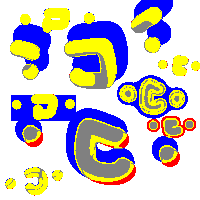
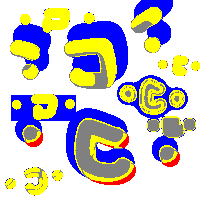
Update similarity report and remove orphaned text-debug images
Remove reference images for read/text-debug/src.psd which has no
corresponding PSD file in the ag-psd submodule. Regenerate similarity
report reflecting FrFX border rendering improvement.

Changed region(s): [[0.72, 0.57, 0.99, 0.69]]

diff --git a/docs/similarity_report.md b/docs/similarity_report.md
@@ -1,14 +1,14 @@
 # QtPsd Similarity Test Results
 
-Generated on: 2026-02-08T21:35:47
+Generated on: 2026-02-09T10:27:26
 
 ## Summary Statistics
 
 | Metric | Photoshop vs QPsdView | Photoshop vs Image Data |
 |--------|-----------------------|-------------------------|
-| Total Tests | 146 | 146 |
-| Passed Tests (>50%) | 116 (74.0%) | 108 (79.5%) |
-| Average Similarity | 75.59% | 79.83% |
+| Total Tests | 145 | 145 |
+| Passed Tests (>50%) | 116 (74.5%) | 108 (80.0%) |
+| Average Similarity | 75.88% | 80.20% |
 | Minimum Similarity | 0.00% | 0.00% |
 | Maximum Similarity | 100.00% | 100.00% |
 
@@ -35,7 +35,7 @@ Generated on: 2026-02-08T21:35:47
 | [write/circle/expected.psd](https://github.com/Agamnentzar/ag-psd/tree/master/test/write/circle/expected.psd) | 24.6 KB | 99.97%  | ✅ PERFECT | [<img src="images/psd2png/ag-psd/write/circle/expected.png" width="100">](images/psd2png/ag-psd/write/circle/expected.png) | [<img src="images/psdview/ag-psd/write/circle/expected.png" width="100">](images/psdview/ag-psd/write/circle/expected.png) | [<img src="images/psdview/ag-psd/write/circle/expected_diff.png" width="100">](images/psdview/ag-psd/write/circle/expected_diff.png) |
 | [read-write/vector-and-mask/expected.psd](https://github.com/Agamnentzar/ag-psd/tree/master/test/read-write/vector-and-mask/expected.psd) | 25.2 KB | 84.59%  | ⚠ LOW | [<img src="images/psd2png/ag-psd/read-write/vector-and-mask/expected.png" width="100">](images/psd2png/ag-psd/read-write/vector-and-mask/expected.png) | [<img src="images/psdview/ag-psd/read-write/vector-and-mask/expected.png" width="100">](images/psdview/ag-psd/read-write/vector-and-mask/expected.png) | [<img src="images/psdview/ag-psd/read-write/vector-and-mask/expected_diff.png" width="100">](images/psdview/ag-psd/read-write/vector-and-mask/expected_diff.png) |
 | [read/nested/src.psd](https://github.com/Agamnentzar/ag-psd/tree/master/test/read/nested/src.psd) | 25.4 KB | 100.00%  | ✅ PERFECT | [<img src="images/psd2png/ag-psd/read/nested/src.png" width="100">](images/psd2png/ag-psd/read/nested/src.png) | [<img src="images/psdview/ag-psd/read/nested/src.png" width="100">](images/psdview/ag-psd/read/nested/src.png) | [<img src="images/psdview/ag-psd/read/nested/src_diff.png" width="100">](images/psdview/ag-psd/read/nested/src_diff.png) |
-| [read-write/stroke/expected.psd](https://github.com/Agamnentzar/ag-psd/tree/master/test/read-write/stroke/expected.psd) | 25.5 KB | 61.89%  | ⚠ LOW | [<img src="images/psd2png/ag-psd/read-write/stroke/expected.png" width="100">](images/psd2png/ag-psd/read-write/stroke/expected.png) | [<img src="images/psdview/ag-psd/read-write/stroke/expected.png" width="100">](images/psdview/ag-psd/read-write/stroke/expected.png) | [<img src="images/psdview/ag-psd/read-write/stroke/expected_diff.png" width="100">](images/psdview/ag-psd/read-write/stroke/expected_diff.png) |
+| [read-write/stroke/expected.psd](https://github.com/Agamnentzar/ag-psd/tree/master/test/read-write/stroke/expected.psd) | 25.5 KB | 90.21%  | ✅ GOOD | [<img src="images/psd2png/ag-psd/read-write/stroke/expected.png" width="100">](images/psd2png/ag-psd/read-write/stroke/expected.png) | [<img src="images/psdview/ag-psd/read-write/stroke/expected.png" width="100">](images/psdview/ag-psd/read-write/stroke/expected.png) | [<img src="images/psdview/ag-psd/read-write/stroke/expected_diff.png" width="100">](images/psdview/ag-psd/read-write/stroke/expected_diff.png) |
 | [write/layer-mask/expected.psd](https://github.com/Agamnentzar/ag-psd/tree/master/test/write/layer-mask/expected.psd) | 25.6 KB | 100.00%  | ✅ PERFECT | [<img src="images/psd2png/ag-psd/write/layer-mask/expected.png" width="100">](images/psd2png/ag-psd/write/layer-mask/expected.png) | [<img src="images/psdview/ag-psd/write/layer-mask/expected.png" width="100">](images/psdview/ag-psd/write/layer-mask/expected.png) | [<img src="images/psdview/ag-psd/write/layer-mask/expected_diff.png" width="100">](images/psdview/ag-psd/write/layer-mask/expected_diff.png) |
 | [read/pass-through/src.psd](https://github.com/Agamnentzar/ag-psd/tree/master/test/read/pass-through/src.psd) | 26.3 KB | 100.00%  | ✅ PERFECT | [<img src="images/psd2png/ag-psd/read/pass-through/src.png" width="100">](images/psd2png/ag-psd/read/pass-through/src.png) | [<img src="images/psdview/ag-psd/read/pass-through/src.png" width="100">](images/psdview/ag-psd/read/pass-through/src.png) | [<img src="images/psdview/ag-psd/read/pass-through/src_diff.png" width="100">](images/psdview/ag-psd/read/pass-through/src_diff.png) |
 | [layer-mask/src.psd](https://github.com/Agamnentzar/ag-psd/tree/master/test/layer-mask/src.psd) | 26.7 KB | 100.00%  | ✅ PERFECT | [<img src="images/psd2png/ag-psd/layer-mask/src.png" width="100">](images/psd2png/ag-psd/layer-mask/src.png) | [<img src="images/psdview/ag-psd/layer-mask/src.png" width="100">](images/psdview/ag-psd/layer-mask/src.png) | [<img src="images/psdview/ag-psd/layer-mask/src_diff.png" width="100">](images/psdview/ag-psd/layer-mask/src_diff.png) |
@@ -43,9 +43,9 @@ Generated on: 2026-02-08T21:35:47
 | [read-write/vector-and-mask/src.psd](https://github.com/Agamnentzar/ag-psd/tree/master/test/read-write/vector-and-mask/src.psd) | 27.0 KB | 84.59%  | ⚠ LOW | [<img src="images/psd2png/ag-psd/read-write/vector-and-mask/src.png" width="100">](images/psd2png/ag-psd/read-write/vector-and-mask/src.png) | [<img src="images/psdview/ag-psd/read-write/vector-and-mask/src.png" width="100">](images/psdview/ag-psd/read-write/vector-and-mask/src.png) | [<img src="images/psdview/ag-psd/read-write/vector-and-mask/src_diff.png" width="100">](images/psdview/ag-psd/read-write/vector-and-mask/src_diff.png) |
 | [read/section-2/src.psd](https://github.com/Agamnentzar/ag-psd/tree/master/test/read/section-2/src.psd) | 27.8 KB | 100.00%  | ✅ PERFECT | [<img src="images/psd2png/ag-psd/read/section-2/src.png" width="100">](images/psd2png/ag-psd/read/section-2/src.png) | [<img src="images/psdview/ag-psd/read/section-2/src.png" width="100">](images/psdview/ag-psd/read/section-2/src.png) | [<img src="images/psdview/ag-psd/read/section-2/src_diff.png" width="100">](images/psdview/ag-psd/read/section-2/src_diff.png) |
 | [read/cat/src.psd](https://github.com/Agamnentzar/ag-psd/tree/master/test/read/cat/src.psd) | 29.5 KB | 100.00%  | ✅ PERFECT | [<img src="images/psd2png/ag-psd/read/cat/src.png" width="100">](images/psd2png/ag-psd/read/cat/src.png) | [<img src="images/psdview/ag-psd/read/cat/src.png" width="100">](images/psdview/ag-psd/read/cat/src.png) | [<img src="images/psdview/ag-psd/read/cat/src_diff.png" width="100">](images/psdview/ag-psd/read/cat/src_diff.png) |
-| [read-write/animation-effects/expected.psd](https://github.com/Agamnentzar/ag-psd/tree/master/test/read-write/animation-effects/expected.psd) | 30.3 KB | 46.30%  | ❌ FAILED | [<img src="images/psd2png/ag-psd/read-write/animation-effects/expected.png" width="100">](images/psd2png/ag-psd/read-write/animation-effects/expected.png) | [<img src="images/psdview/ag-psd/read-write/animation-effects/expected.png" width="100">](images/psdview/ag-psd/read-write/animation-effects/expected.png) | [<img src="images/psdview/ag-psd/read-write/animation-effects/expected_diff.png" width="100">](images/psdview/ag-psd/read-write/animation-effects/expected_diff.png) |
+| [read-write/animation-effects/expected.psd](https://github.com/Agamnentzar/ag-psd/tree/master/test/read-write/animation-effects/expected.psd) | 30.3 KB | 27.06%  | ❌ FAILED | [<img src="images/psd2png/ag-psd/read-write/animation-effects/expected.png" width="100">](images/psd2png/ag-psd/read-write/animation-effects/expected.png) | [<img src="images/psdview/ag-psd/read-write/animation-effects/expected.png" width="100">](images/psdview/ag-psd/read-write/animation-effects/expected.png) | [<img src="images/psdview/ag-psd/read-write/animation-effects/expected_diff.png" width="100">](images/psdview/ag-psd/read-write/animation-effects/expected_diff.png) |
 | [read/vector-layer/src.psd](https://github.com/Agamnentzar/ag-psd/tree/master/test/read/vector-layer/src.psd) | 30.4 KB | 100.00%  | ✅ PERFECT | [<img src="images/psd2png/ag-psd/read/vector-layer/src.png" width="100">](images/psd2png/ag-psd/read/vector-layer/src.png) | [<img src="images/psdview/ag-psd/read/vector-layer/src.png" width="100">](images/psdview/ag-psd/read/vector-layer/src.png) | [<img src="images/psdview/ag-psd/read/vector-layer/src_diff.png" width="100">](images/psdview/ag-psd/read/vector-layer/src_diff.png) |
-| [read-write/stroke/src.psd](https://github.com/Agamnentzar/ag-psd/tree/master/test/read-write/stroke/src.psd) | 30.4 KB | 61.89%  | ⚠ LOW | [<img src="images/psd2png/ag-psd/read-write/stroke/src.png" width="100">](images/psd2png/ag-psd/read-write/stroke/src.png) | [<img src="images/psdview/ag-psd/read-write/stroke/src.png" width="100">](images/psdview/ag-psd/read-write/stroke/src.png) | [<img src="images/psdview/ag-psd/read-write/stroke/src_diff.png" width="100">](images/psdview/ag-psd/read-write/stroke/src_diff.png) |
+| [read-write/stroke/src.psd](https://github.com/Agamnentzar/ag-psd/tree/master/test/read-write/stroke/src.psd) | 30.4 KB | 90.21%  | ✅ GOOD | [<img src="images/psd2png/ag-psd/read-write/stroke/src.png" width="100">](images/psd2png/ag-psd/read-write/stroke/src.png) | [<img src="images/psdview/ag-psd/read-write/stroke/src.png" width="100">](images/psdview/ag-psd/read-write/stroke/src.png) | [<img src="images/psdview/ag-psd/read-write/stroke/src_diff.png" width="100">](images/psdview/ag-psd/read-write/stroke/src_diff.png) |
 | [read-write/animation-offset/expected.psd](https://github.com/Agamnentzar/ag-psd/tree/master/test/read-write/animation-offset/expected.psd) | 31.0 KB | 100.00%  | ✅ PERFECT | [<img src="images/psd2png/ag-psd/read-write/animation-offset/expected.png" width="100">](images/psd2png/ag-psd/read-write/animation-offset/expected.png) | [<img src="images/psdview/ag-psd/read-write/animation-offset/expected.png" width="100">](images/psdview/ag-psd/read-write/animation-offset/expected.png) | [<img src="images/psdview/ag-psd/read-write/animation-offset/expected_diff.png" width="100">](images/psdview/ag-psd/read-write/animation-offset/expected_diff.png) |
 | [read-write/layer-comps/expected.psd](https://github.com/Agamnentzar/ag-psd/tree/master/test/read-write/layer-comps/expected.psd) | 31.1 KB | 100.00%  | ✅ PERFECT | [<img src="images/psd2png/ag-psd/read-write/layer-comps/expected.png" width="100">](images/psd2png/ag-psd/read-write/layer-comps/expected.png) | [<img src="images/psdview/ag-psd/read-write/layer-comps/expected.png" width="100">](images/psdview/ag-psd/read-write/layer-comps/expected.png) | [<img src="images/psdview/ag-psd/read-write/layer-comps/expected_diff.png" width="100">](images/psdview/ag-psd/read-write/layer-comps/expected_diff.png) |
 | [read-write/winding-non-zero/src.psd](https://github.com/Agamnentzar/ag-psd/tree/master/test/read-write/winding-non-zero/src.psd) | 31.1 KB | 99.15%  | ✅ PERFECT | [<img src="images/psd2png/ag-psd/read-write/winding-non-zero/src.png" width="100">](images/psd2png/ag-psd/read-write/winding-non-zero/src.png) | [<img src="images/psdview/ag-psd/read-write/winding-non-zero/src.png" width="100">](images/psdview/ag-psd/read-write/winding-non-zero/src.png) | [<img src="images/psdview/ag-psd/read-write/winding-non-zero/src_diff.png" width="100">](images/psdview/ag-psd/read-write/winding-non-zero/src_diff.png) |
@@ -53,8 +53,8 @@ Generated on: 2026-02-08T21:35:47
 | [read-write/boolean/expected.psd](https://github.com/Agamnentzar/ag-psd/tree/master/test/read-write/boolean/expected.psd) | 31.9 KB | 99.99%  | ✅ PERFECT | [<img src="images/psd2png/ag-psd/read-write/boolean/expected.png" width="100">](images/psd2png/ag-psd/read-write/boolean/expected.png) | [<img src="images/psdview/ag-psd/read-write/boolean/expected.png" width="100">](images/psdview/ag-psd/read-write/boolean/expected.png) | [<img src="images/psdview/ag-psd/read-write/boolean/expected_diff.png" width="100">](images/psdview/ag-psd/read-write/boolean/expected_diff.png) |
 | [read/winding-even-odd/src.psd](https://github.com/Agamnentzar/ag-psd/tree/master/test/read/winding-even-odd/src.psd) | 32.9 KB | 98.82%  | ✅ GOOD | [<img src="images/psd2png/ag-psd/read/winding-even-odd/src.png" width="100">](images/psd2png/ag-psd/read/winding-even-odd/src.png) | [<img src="images/psdview/ag-psd/read/winding-even-odd/src.png" width="100">](images/psdview/ag-psd/read/winding-even-odd/src.png) | [<img src="images/psdview/ag-psd/read/winding-even-odd/src_diff.png" width="100">](images/psdview/ag-psd/read/winding-even-odd/src_diff.png) |
 | [read-write/boolean/src.psd](https://github.com/Agamnentzar/ag-psd/tree/master/test/read-write/boolean/src.psd) | 33.8 KB | 99.99%  | ✅ PERFECT | [<img src="images/psd2png/ag-psd/read-write/boolean/src.png" width="100">](images/psd2png/ag-psd/read-write/boolean/src.png) | [<img src="images/psdview/ag-psd/read-write/boolean/src.png" width="100">](images/psdview/ag-psd/read-write/boolean/src.png) | [<img src="images/psdview/ag-psd/read-write/boolean/src_diff.png" width="100">](images/psdview/ag-psd/read-write/boolean/src_diff.png) |
-| [read-write/animation-effects/src.psd](https://github.com/Agamnentzar/ag-psd/tree/master/test/read-write/animation-effects/src.psd) | 34.8 KB | 46.30%  | ❌ FAILED | [<img src="images/psd2png/ag-psd/read-write/animation-effects/src.png" width="100">](images/psd2png/ag-psd/read-write/animation-effects/src.png) | [<img src="images/psdview/ag-psd/read-write/animation-effects/src.png" width="100">](images/psdview/ag-psd/read-write/animation-effects/src.png) | [<img src="images/psdview/ag-psd/read-write/animation-effects/src_diff.png" width="100">](images/psdview/ag-psd/read-write/animation-effects/src_diff.png) |
-| [read/animation-effects/src.psd](https://github.com/Agamnentzar/ag-psd/tree/master/test/read/animation-effects/src.psd) | 34.8 KB | 46.30%  | ❌ FAILED | [<img src="images/psd2png/ag-psd/read/animation-effects/src.png" width="100">](images/psd2png/ag-psd/read/animation-effects/src.png) | [<img src="images/psdview/ag-psd/read/animation-effects/src.png" width="100">](images/psdview/ag-psd/read/animation-effects/src.png) | [<img src="images/psdview/ag-psd/read/animation-effects/src_diff.png" width="100">](images/psdview/ag-psd/read/animation-effects/src_diff.png) |
+| [read-write/animation-effects/src.psd](https://github.com/Agamnentzar/ag-psd/tree/master/test/read-write/animation-effects/src.psd) | 34.8 KB | 27.06%  | ❌ FAILED | [<img src="images/psd2png/ag-psd/read-write/animation-effects/src.png" width="100">](images/psd2png/ag-psd/read-write/animation-effects/src.png) | [<img src="images/psdview/ag-psd/read-write/animation-effects/src.png" width="100">](images/psdview/ag-psd/read-write/animation-effects/src.png) | [<img src="images/psdview/ag-psd/read-write/animation-effects/src_diff.png" width="100">](images/psdview/ag-psd/read-write/animation-effects/src_diff.png) |
+| [read/animation-effects/src.psd](https://github.com/Agamnentzar/ag-psd/tree/master/test/read/animation-effects/src.psd) | 34.8 KB | 27.06%  | ❌ FAILED | [<img src="images/psd2png/ag-psd/read/animation-effects/src.png" width="100">](images/psd2png/ag-psd/read/animation-effects/src.png) | [<img src="images/psdview/ag-psd/read/animation-effects/src.png" width="100">](images/psdview/ag-psd/read/animation-effects/src.png) | [<img src="images/psdview/ag-psd/read/animation-effects/src_diff.png" width="100">](images/psdview/ag-psd/read/animation-effects/src_diff.png) |
 | [read/lantern/src.psd](https://github.com/Agamnentzar/ag-psd/tree/master/test/read/lantern/src.psd) | 35.0 KB | 100.00%  | ✅ PERFECT | [<img src="images/psd2png/ag-psd/read/lantern/src.png" width="100">](images/psd2png/ag-psd/read/lantern/src.png) | [<img src="images/psdview/ag-psd/read/lantern/src.png" width="100">](images/psdview/ag-psd/read/lantern/src.png) | [<img src="images/psdview/ag-psd/read/lantern/src_diff.png" width="100">](images/psdview/ag-psd/read/lantern/src_diff.png) |
 | [read/smart-object-png/expected.psd](https://github.com/Agamnentzar/ag-psd/tree/master/test/read/smart-object-png/expected.psd) | 35.1 KB | 96.16%  | ✅ GOOD | [<img src="images/psd2png/ag-psd/read/smart-object-png/expected.png" width="100">](images/psd2png/ag-psd/read/smart-object-png/expected.png) | [<img src="images/psdview/ag-psd/read/smart-object-png/expected.png" width="100">](images/psdview/ag-psd/read/smart-object-png/expected.png) | [<img src="images/psdview/ag-psd/read/smart-object-png/expected_diff.png" width="100">](images/psdview/ag-psd/read/smart-object-png/expected_diff.png) |
 | [read/smart-object-png/src.psd](https://github.com/Agamnentzar/ag-psd/tree/master/test/read/smart-object-png/src.psd) | 35.1 KB | 96.16%  | ✅ GOOD | [<img src="images/psd2png/ag-psd/read/smart-object-png/src.png" width="100">](images/psd2png/ag-psd/read/smart-object-png/src.png) | [<img src="images/psdview/ag-psd/read/smart-object-png/src.png" width="100">](images/psdview/ag-psd/read/smart-object-png/src.png) | [<img src="images/psdview/ag-psd/read/smart-object-png/src_diff.png" width="100">](images/psdview/ag-psd/read/smart-object-png/src_diff.png) |
@@ -82,7 +82,6 @@ Generated on: 2026-02-08T21:35:47
 | [text-simple.psd](https://github.com/Agamnentzar/ag-psd/tree/master/test/text-simple.psd) | 48.9 KB | 48.59%  | ❌ FAILED | [<img src="images/psd2png/ag-psd/text-simple.png" width="100">](images/psd2png/ag-psd/text-simple.png) | [<img src="images/psdview/ag-psd/text-simple.png" width="100">](images/psdview/ag-psd/text-simple.png) | [<img src="images/psdview/ag-psd/text-simple_diff.png" width="100">](images/psdview/ag-psd/text-simple_diff.png) |
 | [read/layer-mask/src.psd](https://github.com/Agamnentzar/ag-psd/tree/master/test/read/layer-mask/src.psd) | 49.0 KB | 100.00%  | ✅ PERFECT | [<img src="images/psd2png/ag-psd/read/layer-mask/src.png" width="100">](images/psd2png/ag-psd/read/layer-mask/src.png) | [<img src="images/psdview/ag-psd/read/layer-mask/src.png" width="100">](images/psdview/ag-psd/read/layer-mask/src.png) | [<img src="images/psdview/ag-psd/read/layer-mask/src_diff.png" width="100">](images/psdview/ag-psd/read/layer-mask/src_diff.png) |
 | [read/text-alternatives/src.psd](https://github.com/Agamnentzar/ag-psd/tree/master/test/read/text-alternatives/src.psd) | 50.2 KB | 23.87%  | ❌ FAILED | [<img src="images/psd2png/ag-psd/read/text-alternatives/src.png" width="100">](images/psd2png/ag-psd/read/text-alternatives/src.png) | [<img src="images/psdview/ag-psd/read/text-alternatives/src.png" width="100">](images/psdview/ag-psd/read/text-alternatives/src.png) | [<img src="images/psdview/ag-psd/read/text-alternatives/src_diff.png" width="100">](images/psdview/ag-psd/read/text-alternatives/src_diff.png) |
-| [read/text-debug/src.psd](https://github.com/Agamnentzar/ag-psd/tree/master/test/read/text-debug/src.psd) | 51.5 KB | 36.62%  | ❌ FAILED | [<img src="images/psd2png/ag-psd/read/text-debug/src.png" width="100">](images/psd2png/ag-psd/read/text-debug/src.png) | [<img src="images/psdview/ag-psd/read/text-debug/src.png" width="100">](images/psdview/ag-psd/read/text-debug/src.png) | [<img src="images/psdview/ag-psd/read/text-debug/src_diff.png" width="100">](images/psdview/ag-psd/read/text-debug/src_diff.png) |
 | [read-write/text-box/src.psd](https://github.com/Agamnentzar/ag-psd/tree/master/test/read-write/text-box/src.psd) | 51.9 KB | 0.00%  | ❌ FAILED | [<img src="images/psd2png/ag-psd/read-write/text-box/src.png" width="100">](images/psd2png/ag-psd/read-write/text-box/src.png) | [<img src="images/psdview/ag-psd/read-write/text-box/src.png" width="100">](images/psdview/ag-psd/read-write/text-box/src.png) | [<img src="images/psdview/ag-psd/read-write/text-box/src_diff.png" width="100">](images/psdview/ag-psd/read-write/text-box/src_diff.png) |
 | [read/text-simple/src.psd](https://github.com/Agamnentzar/ag-psd/tree/master/test/read/text-simple/src.psd) | 55.7 KB | 15.30%  | ❌ FAILED | [<img src="images/psd2png/ag-psd/read/text-simple/src.png" width="100">](images/psd2png/ag-psd/read/text-simple/src.png) | [<img src="images/psdview/ag-psd/read/text-simple/src.png" width="100">](images/psdview/ag-psd/read/text-simple/src.png) | [<img src="images/psdview/ag-psd/read/text-simple/src_diff.png" width="100">](images/psdview/ag-psd/read/text-simple/src_diff.png) |
 | [read/text-carriage-return/src.psd](https://github.com/Agamnentzar/ag-psd/tree/master/test/read/text-carriage-return/src.psd) | 56.0 KB | 7.78%  | ❌ FAILED | [<img src="images/psd2png/ag-psd/read/text-carriage-return/src.png" width="100">](images/psd2png/ag-psd/read/text-carriage-return/src.png) | [<img src="images/psdview/ag-psd/read/text-carriage-return/src.png" width="100">](images/psdview/ag-psd/read/text-carriage-return/src.png) | [<img src="images/psdview/ag-psd/read/text-carriage-return/src_diff.png" width="100">](images/psdview/ag-psd/read/text-carriage-return/src_diff.png) |
@@ -104,12 +103,12 @@ Generated on: 2026-02-08T21:35:47
 | [write/effects/expected.psd](https://github.com/Agamnentzar/ag-psd/tree/master/test/write/effects/expected.psd) | 85.8 KB | 52.50%  | ⚠ LOW | [<img src="images/psd2png/ag-psd/write/effects/expected.png" width="100">](images/psd2png/ag-psd/write/effects/expected.png) | [<img src="images/psdview/ag-psd/write/effects/expected.png" width="100">](images/psdview/ag-psd/write/effects/expected.png) | [<img src="images/psdview/ag-psd/write/effects/expected_diff.png" width="100">](images/psdview/ag-psd/write/effects/expected_diff.png) |
 | [read/text-complex/src.psd](https://github.com/Agamnentzar/ag-psd/tree/master/test/read/text-complex/src.psd) | 85.9 KB | 27.04%  | ❌ FAILED | [<img src="images/psd2png/ag-psd/read/text-complex/src.png" width="100">](images/psd2png/ag-psd/read/text-complex/src.png) | [<img src="images/psdview/ag-psd/read/text-complex/src.png" width="100">](images/psdview/ag-psd/read/text-complex/src.png) | [<img src="images/psdview/ag-psd/read/text-complex/src_diff.png" width="100">](images/psdview/ag-psd/read/text-complex/src_diff.png) |
 | [write/groups/expected.psd](https://github.com/Agamnentzar/ag-psd/tree/master/test/write/groups/expected.psd) | 95.0 KB | 100.00%  | ✅ PERFECT | [<img src="images/psd2png/ag-psd/write/groups/expected.png" width="100">](images/psd2png/ag-psd/write/groups/expected.png) | [<img src="images/psdview/ag-psd/write/groups/expected.png" width="100">](images/psdview/ag-psd/write/groups/expected.png) | [<img src="images/psdview/ag-psd/write/groups/expected_diff.png" width="100">](images/psdview/ag-psd/write/groups/expected_diff.png) |
-| [read-write/effects/expected.psd](https://github.com/Agamnentzar/ag-psd/tree/master/test/read-write/effects/expected.psd) | 98.2 KB | 52.20%  | ⚠ LOW | [<img src="images/psd2png/ag-psd/read-write/effects/expected.png" width="100">](images/psd2png/ag-psd/read-write/effects/expected.png) | [<img src="images/psdview/ag-psd/read-write/effects/expected.png" width="100">](images/psdview/ag-psd/read-write/effects/expected.png) | [<img src="images/psdview/ag-psd/read-write/effects/expected_diff.png" width="100">](images/psdview/ag-psd/read-write/effects/expected_diff.png) |
+| [read-write/effects/expected.psd](https://github.com/Agamnentzar/ag-psd/tree/master/test/read-write/effects/expected.psd) | 98.2 KB | 53.99%  | ⚠ LOW | [<img src="images/psd2png/ag-psd/read-write/effects/expected.png" width="100">](images/psd2png/ag-psd/read-write/effects/expected.png) | [<img src="images/psdview/ag-psd/read-write/effects/expected.png" width="100">](images/psdview/ag-psd/read-write/effects/expected.png) | [<img src="images/psdview/ag-psd/read-write/effects/expected_diff.png" width="100">](images/psdview/ag-psd/read-write/effects/expected_diff.png) |
 | [write/complex/expected.psd](https://github.com/Agamnentzar/ag-psd/tree/master/test/write/complex/expected.psd) | 99.7 KB | 99.67%  | ✅ PERFECT | [<img src="images/psd2png/ag-psd/write/complex/expected.png" width="100">](images/psd2png/ag-psd/write/complex/expected.png) | [<img src="images/psdview/ag-psd/write/complex/expected.png" width="100">](images/psdview/ag-psd/write/complex/expected.png) | [<img src="images/psdview/ag-psd/write/complex/expected_diff.png" width="100">](images/psdview/ag-psd/write/complex/expected_diff.png) |
 | [read/effects/src.psd](https://github.com/Agamnentzar/ag-psd/tree/master/test/read/effects/src.psd) | 101.5 KB | 52.43%  | ⚠ LOW | [<img src="images/psd2png/ag-psd/read/effects/src.png" width="100">](images/psd2png/ag-psd/read/effects/src.png) | [<img src="images/psdview/ag-psd/read/effects/src.png" width="100">](images/psdview/ag-psd/read/effects/src.png) | [<img src="images/psdview/ag-psd/read/effects/src_diff.png" width="100">](images/psdview/ag-psd/read/effects/src_diff.png) |
 | [read-write/animation-frame/expected.psd](https://github.com/Agamnentzar/ag-psd/tree/master/test/read-write/animation-frame/expected.psd) | 106.4 KB | 100.00%  | ✅ PERFECT | [<img src="images/psd2png/ag-psd/read-write/animation-frame/expected.png" width="100">](images/psd2png/ag-psd/read-write/animation-frame/expected.png) | [<img src="images/psdview/ag-psd/read-write/animation-frame/expected.png" width="100">](images/psdview/ag-psd/read-write/animation-frame/expected.png) | [<img src="images/psdview/ag-psd/read-write/animation-frame/expected_diff.png" width="100">](images/psdview/ag-psd/read-write/animation-frame/expected_diff.png) |
 | [read-write/gradient/expected.psd](https://github.com/Agamnentzar/ag-psd/tree/master/test/read-write/gradient/expected.psd) | 106.6 KB | 14.59%  | ❌ FAILED | [<img src="images/psd2png/ag-psd/read-write/gradient/expected.png" width="100">](images/psd2png/ag-psd/read-write/gradient/expected.png) | [<img src="images/psdview/ag-psd/read-write/gradient/expected.png" width="100">](images/psdview/ag-psd/read-write/gradient/expected.png) | [<img src="images/psdview/ag-psd/read-write/gradient/expected_diff.png" width="100">](images/psdview/ag-psd/read-write/gradient/expected_diff.png) |
-| [read-write/effects/src.psd](https://github.com/Agamnentzar/ag-psd/tree/master/test/read-write/effects/src.psd) | 106.9 KB | 52.20%  | ⚠ LOW | [<img src="images/psd2png/ag-psd/read-write/effects/src.png" width="100">](images/psd2png/ag-psd/read-write/effects/src.png) | [<img src="images/psdview/ag-psd/read-write/effects/src.png" width="100">](images/psdview/ag-psd/read-write/effects/src.png) | [<img src="images/psdview/ag-psd/read-write/effects/src_diff.png" width="100">](images/psdview/ag-psd/read-write/effects/src_diff.png) |
+| [read-write/effects/src.psd](https://github.com/Agamnentzar/ag-psd/tree/master/test/read-write/effects/src.psd) | 106.9 KB | 53.99%  | ⚠ LOW | [<img src="images/psd2png/ag-psd/read-write/effects/src.png" width="100">](images/psd2png/ag-psd/read-write/effects/src.png) | [<img src="images/psdview/ag-psd/read-write/effects/src.png" width="100">](images/psdview/ag-psd/read-write/effects/src.png) | [<img src="images/psdview/ag-psd/read-write/effects/src_diff.png" width="100">](images/psdview/ag-psd/read-write/effects/src_diff.png) |
 | [read/key-origin-shape-bbox/src.psd](https://github.com/Agamnentzar/ag-psd/tree/master/test/read/key-origin-shape-bbox/src.psd) | 109.4 KB | 99.66%  | ✅ PERFECT | [<img src="images/psd2png/ag-psd/read/key-origin-shape-bbox/src.png" width="100">](images/psd2png/ag-psd/read/key-origin-shape-bbox/src.png) | [<img src="images/psdview/ag-psd/read/key-origin-shape-bbox/src.png" width="100">](images/psdview/ag-psd/read/key-origin-shape-bbox/src.png) | [<img src="images/psdview/ag-psd/read/key-origin-shape-bbox/src_diff.png" width="100">](images/psdview/ag-psd/read/key-origin-shape-bbox/src_diff.png) |
 | [read/sai/src.psd](https://github.com/Agamnentzar/ag-psd/tree/master/test/read/sai/src.psd) | 110.9 KB | 100.00%  | ✅ PERFECT | [<img src="images/psd2png/ag-psd/read/sai/src.png" width="100">](images/psd2png/ag-psd/read/sai/src.png) | [<img src="images/psdview/ag-psd/read/sai/src.png" width="100">](images/psdview/ag-psd/read/sai/src.png) | [<img src="images/psdview/ag-psd/read/sai/src_diff.png" width="100">](images/psdview/ag-psd/read/sai/src_diff.png) |
 | [read-write/gradient/src.psd](https://github.com/Agamnentzar/ag-psd/tree/master/test/read-write/gradient/src.psd) | 110.9 KB | 14.59%  | ❌ FAILED | [<img src="images/psd2png/ag-psd/read-write/gradient/src.png" width="100">](images/psd2png/ag-psd/read-write/gradient/src.png) | [<img src="images/psdview/ag-psd/read-write/gradient/src.png" width="100">](images/psdview/ag-psd/read-write/gradient/src.png) | [<img src="images/psdview/ag-psd/read-write/gradient/src_diff.png" width="100">](images/psdview/ag-psd/read-write/gradient/src_diff.png) |
@@ -156,9 +155,9 @@ Generated on: 2026-02-08T21:35:47
 | [read-write/cyllinder-warp/expected.psd](https://github.com/Agamnentzar/ag-psd/tree/master/test/read-write/cyllinder-warp/expected.psd) | 1.4 MB | 100.00%  | ✅ PERFECT | [<img src="images/psd2png/ag-psd/read-write/cyllinder-warp/expected.png" width="100">](images/psd2png/ag-psd/read-write/cyllinder-warp/expected.png) | [<img src="images/psdview/ag-psd/read-write/cyllinder-warp/expected.png" width="100">](images/psdview/ag-psd/read-write/cyllinder-warp/expected.png) | [<img src="images/psdview/ag-psd/read-write/cyllinder-warp/expected_diff.png" width="100">](images/psdview/ag-psd/read-write/cyllinder-warp/expected_diff.png) |
 | [read-write/cyllinder-warp/src.psd](https://github.com/Agamnentzar/ag-psd/tree/master/test/read-write/cyllinder-warp/src.psd) | 1.4 MB | 100.00%  | ✅ PERFECT | [<img src="images/psd2png/ag-psd/read-write/cyllinder-warp/src.png" width="100">](images/psd2png/ag-psd/read-write/cyllinder-warp/src.png) | [<img src="images/psdview/ag-psd/read-write/cyllinder-warp/src.png" width="100">](images/psdview/ag-psd/read-write/cyllinder-warp/src.png) | [<img src="images/psdview/ag-psd/read-write/cyllinder-warp/src_diff.png" width="100">](images/psdview/ag-psd/read-write/cyllinder-warp/src_diff.png) |
 | [read/cyllinder-warp/src.psd](https://github.com/Agamnentzar/ag-psd/tree/master/test/read/cyllinder-warp/src.psd) | 1.4 MB | 100.00%  | ✅ PERFECT | [<img src="images/psd2png/ag-psd/read/cyllinder-warp/src.png" width="100">](images/psd2png/ag-psd/read/cyllinder-warp/src.png) | [<img src="images/psdview/ag-psd/read/cyllinder-warp/src.png" width="100">](images/psdview/ag-psd/read/cyllinder-warp/src.png) | [<img src="images/psdview/ag-psd/read/cyllinder-warp/src_diff.png" width="100">](images/psdview/ag-psd/read/cyllinder-warp/src_diff.png) |
-| [read-write/animation-timeline/expected.psd](https://github.com/Agamnentzar/ag-psd/tree/master/test/read-write/animation-timeline/expected.psd) | 2.2 MB | 25.92%  | ❌ FAILED | [<img src="images/psd2png/ag-psd/read-write/animation-timeline/expected.png" width="100">](images/psd2png/ag-psd/read-write/animation-timeline/expected.png) | [<img src="images/psdview/ag-psd/read-write/animation-timeline/expected.png" width="100">](images/psdview/ag-psd/read-write/animation-timeline/expected.png) | [<img src="images/psdview/ag-psd/read-write/animation-timeline/expected_diff.png" width="100">](images/psdview/ag-psd/read-write/animation-timeline/expected_diff.png) |
-| [read-write/animation-timeline/src.psd](https://github.com/Agamnentzar/ag-psd/tree/master/test/read-write/animation-timeline/src.psd) | 2.2 MB | 25.92%  | ❌ FAILED | [<img src="images/psd2png/ag-psd/read-write/animation-timeline/src.png" width="100">](images/psd2png/ag-psd/read-write/animation-timeline/src.png) | [<img src="images/psdview/ag-psd/read-write/animation-timeline/src.png" width="100">](images/psdview/ag-psd/read-write/animation-timeline/src.png) | [<img src="images/psdview/ag-psd/read-write/animation-timeline/src_diff.png" width="100">](images/psdview/ag-psd/read-write/animation-timeline/src_diff.png) |
-| [read/animation-timeline/src.psd](https://github.com/Agamnentzar/ag-psd/tree/master/test/read/animation-timeline/src.psd) | 2.2 MB | 25.92%  | ❌ FAILED | [<img src="images/psd2png/ag-psd/read/animation-timeline/src.png" width="100">](images/psd2png/ag-psd/read/animation-timeline/src.png) | [<img src="images/psdview/ag-psd/read/animation-timeline/src.png" width="100">](images/psdview/ag-psd/read/animation-timeline/src.png) | [<img src="images/psdview/ag-psd/read/animation-timeline/src_diff.png" width="100">](images/psdview/ag-psd/read/animation-timeline/src_diff.png) |
+| [read-write/animation-timeline/expected.psd](https://github.com/Agamnentzar/ag-psd/tree/master/test/read-write/animation-timeline/expected.psd) | 2.2 MB | 25.95%  | ❌ FAILED | [<img src="images/psd2png/ag-psd/read-write/animation-timeline/expected.png" width="100">](images/psd2png/ag-psd/read-write/animation-timeline/expected.png) | [<img src="images/psdview/ag-psd/read-write/animation-timeline/expected.png" width="100">](images/psdview/ag-psd/read-write/animation-timeline/expected.png) | [<img src="images/psdview/ag-psd/read-write/animation-timeline/expected_diff.png" width="100">](images/psdview/ag-psd/read-write/animation-timeline/expected_diff.png) |
+| [read-write/animation-timeline/src.psd](https://github.com/Agamnentzar/ag-psd/tree/master/test/read-write/animation-timeline/src.psd) | 2.2 MB | 25.95%  | ❌ FAILED | [<img src="images/psd2png/ag-psd/read-write/animation-timeline/src.png" width="100">](images/psd2png/ag-psd/read-write/animation-timeline/src.png) | [<img src="images/psdview/ag-psd/read-write/animation-timeline/src.png" width="100">](images/psdview/ag-psd/read-write/animation-timeline/src.png) | [<img src="images/psdview/ag-psd/read-write/animation-timeline/src_diff.png" width="100">](images/psdview/ag-psd/read-write/animation-timeline/src_diff.png) |
+| [read/animation-timeline/src.psd](https://github.com/Agamnentzar/ag-psd/tree/master/test/read/animation-timeline/src.psd) | 2.2 MB | 25.95%  | ❌ FAILED | [<img src="images/psd2png/ag-psd/read/animation-timeline/src.png" width="100">](images/psd2png/ag-psd/read/animation-timeline/src.png) | [<img src="images/psdview/ag-psd/read/animation-timeline/src.png" width="100">](images/psdview/ag-psd/read/animation-timeline/src.png) | [<img src="images/psdview/ag-psd/read/animation-timeline/src_diff.png" width="100">](images/psdview/ag-psd/read/animation-timeline/src_diff.png) |
 | [read-write/smart-filters/expected.psd](https://github.com/Agamnentzar/ag-psd/tree/master/test/read-write/smart-filters/expected.psd) | 8.0 MB | 2.68%  | ❌ FAILED | [<img src="images/psd2png/ag-psd/read-write/smart-filters/expected.png" width="100">](images/psd2png/ag-psd/read-write/smart-filters/expected.png) | [<img src="images/psdview/ag-psd/read-write/smart-filters/expected.png" width="100">](images/psdview/ag-psd/read-write/smart-filters/expected.png) | [<img src="images/psdview/ag-psd/read-write/smart-filters/expected_diff.png" width="100">](images/psdview/ag-psd/read-write/smart-filters/expected_diff.png) |
 | [read-write/smart-filters/src.psd](https://github.com/Agamnentzar/ag-psd/tree/master/test/read-write/smart-filters/src.psd) | 8.0 MB | 2.68%  | ❌ FAILED | [<img src="images/psd2png/ag-psd/read-write/smart-filters/src.png" width="100">](images/psd2png/ag-psd/read-write/smart-filters/src.png) | [<img src="images/psdview/ag-psd/read-write/smart-filters/src.png" width="100">](images/psdview/ag-psd/read-write/smart-filters/src.png) | [<img src="images/psdview/ag-psd/read-write/smart-filters/src_diff.png" width="100">](images/psdview/ag-psd/read-write/smart-filters/src_diff.png) |
 | [read/16bits/src.psd](https://github.com/Agamnentzar/ag-psd/tree/master/test/read/16bits/src.psd) | 13.5 MB | 99.84%  | ✅ PERFECT | [<img src="images/psd2png/ag-psd/read/16bits/src.png" width="100">](images/psd2png/ag-psd/read/16bits/src.png) | [<img src="images/psdview/ag-psd/read/16bits/src.png" width="100">](images/psdview/ag-psd/read/16bits/src.png) | [<img src="images/psdview/ag-psd/read/16bits/src_diff.png" width="100">](images/psdview/ag-psd/read/16bits/src_diff.png) |
@@ -233,7 +232,6 @@ Generated on: 2026-02-08T21:35:47
 | [text-simple.psd](https://github.com/Agamnentzar/ag-psd/tree/master/test/text-simple.psd) | 48.9 KB | 98.60%  | ✅ GOOD | [<img src="images/psd2png/ag-psd/text-simple.png" width="100">](images/psd2png/ag-psd/text-simple.png) | [<img src="images/imagedata/ag-psd/text-simple.png" width="100">](images/imagedata/ag-psd/text-simple.png) | [<img src="images/imagedata/ag-psd/text-simple_diff.png" width="100">](images/imagedata/ag-psd/text-simple_diff.png) |
 | [read/layer-mask/src.psd](https://github.com/Agamnentzar/ag-psd/tree/master/test/read/layer-mask/src.psd) | 49.0 KB | 99.87%  | ✅ PERFECT | [<img src="images/psd2png/ag-psd/read/layer-mask/src.png" width="100">](images/psd2png/ag-psd/read/layer-mask/src.png) | [<img src="images/imagedata/ag-psd/read/layer-mask/src.png" width="100">](images/imagedata/ag-psd/read/layer-mask/src.png) | [<img src="images/imagedata/ag-psd/read/layer-mask/src_diff.png" width="100">](images/imagedata/ag-psd/read/layer-mask/src_diff.png) |
 | [read/text-alternatives/src.psd](https://github.com/Agamnentzar/ag-psd/tree/master/test/read/text-alternatives/src.psd) | 50.2 KB | 32.54%  | ❌ FAILED | [<img src="images/psd2png/ag-psd/read/text-alternatives/src.png" width="100">](images/psd2png/ag-psd/read/text-alternatives/src.png) | [<img src="images/imagedata/ag-psd/read/text-alternatives/src.png" width="100">](images/imagedata/ag-psd/read/text-alternatives/src.png) | [<img src="images/imagedata/ag-psd/read/text-alternatives/src_diff.png" width="100">](images/imagedata/ag-psd/read/text-alternatives/src_diff.png) |
-| [read/text-debug/src.psd](https://github.com/Agamnentzar/ag-psd/tree/master/test/read/text-debug/src.psd) | 51.5 KB | 26.10%  | ❌ FAILED | [<img src="images/psd2png/ag-psd/read/text-debug/src.png" width="100">](images/psd2png/ag-psd/read/text-debug/src.png) | [<img src="images/imagedata/ag-psd/read/text-debug/src.png" width="100">](images/imagedata/ag-psd/read/text-debug/src.png) | [<img src="images/imagedata/ag-psd/read/text-debug/src_diff.png" width="100">](images/imagedata/ag-psd/read/text-debug/src_diff.png) |
 | [read-write/text-box/src.psd](https://github.com/Agamnentzar/ag-psd/tree/master/test/read-write/text-box/src.psd) | 51.9 KB | 97.79%  | ✅ GOOD | [<img src="images/psd2png/ag-psd/read-write/text-box/src.png" width="100">](images/psd2png/ag-psd/read-write/text-box/src.png) | [<img src="images/imagedata/ag-psd/read-write/text-box/src.png" width="100">](images/imagedata/ag-psd/read-write/text-box/src.png) | [<img src="images/imagedata/ag-psd/read-write/text-box/src_diff.png" width="100">](images/imagedata/ag-psd/read-write/text-box/src_diff.png) |
 | [read/text-simple/src.psd](https://github.com/Agamnentzar/ag-psd/tree/master/test/read/text-simple/src.psd) | 55.7 KB | 98.91%  | ✅ GOOD | [<img src="images/psd2png/ag-psd/read/text-simple/src.png" width="100">](images/psd2png/ag-psd/read/text-simple/src.png) | [<img src="images/imagedata/ag-psd/read/text-simple/src.png" width="100">](images/imagedata/ag-psd/read/text-simple/src.png) | [<img src="images/imagedata/ag-psd/read/text-simple/src_diff.png" width="100">](images/imagedata/ag-psd/read/text-simple/src_diff.png) |
 | [read/text-carriage-return/src.psd](https://github.com/Agamnentzar/ag-psd/tree/master/test/read/text-carriage-return/src.psd) | 56.0 KB | 100.00%  | ✅ PERFECT | [<img src="images/psd2png/ag-psd/read/text-carriage-return/src.png" width="100">](images/psd2png/ag-psd/read/text-carriage-return/src.png) | [<img src="images/imagedata/ag-psd/read/text-carriage-return/src.png" width="100">](images/imagedata/ag-psd/read/text-carriage-return/src.png) | [<img src="images/imagedata/ag-psd/read/text-carriage-return/src_diff.png" width="100">](images/imagedata/ag-psd/read/text-carriage-return/src_diff.png) |
